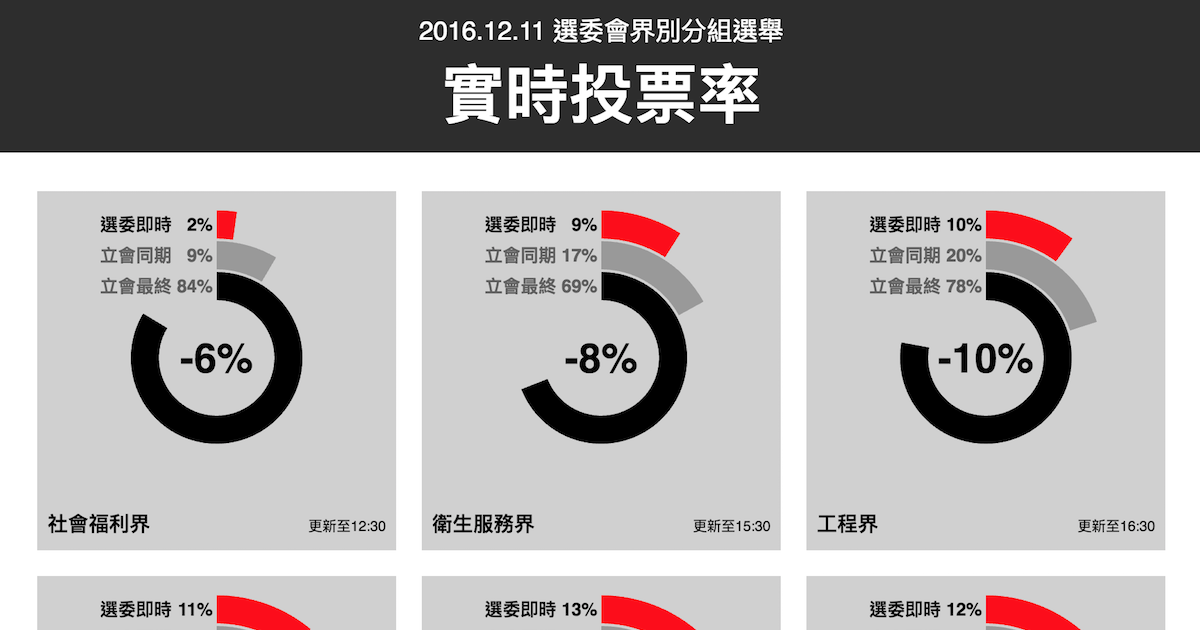
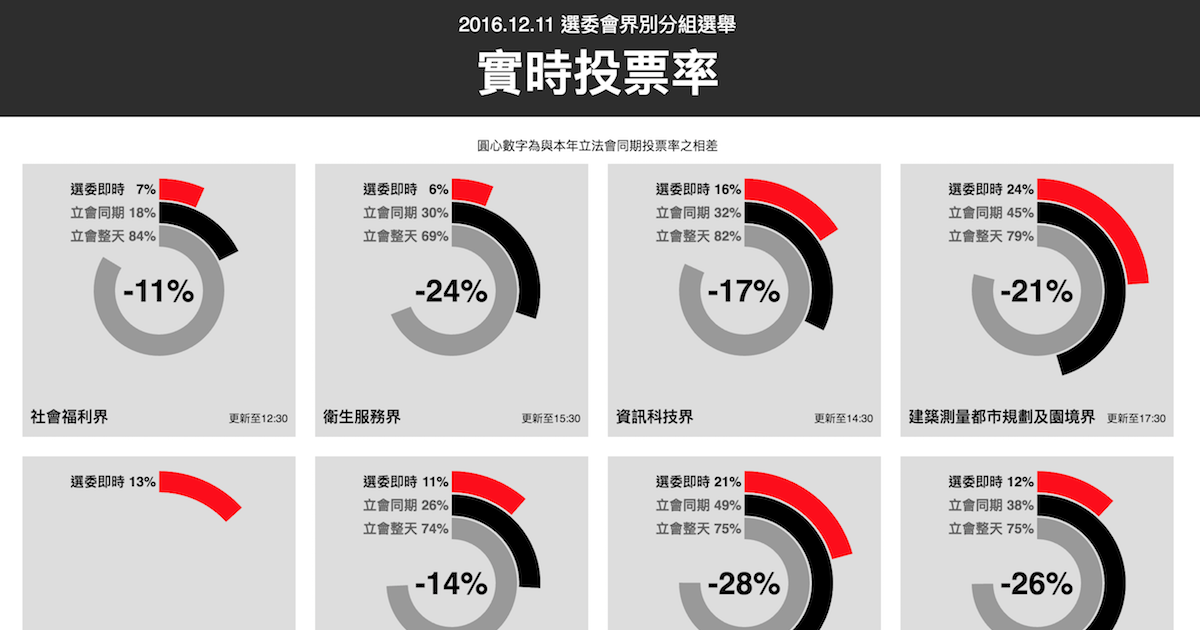
Update chart colors.

diff --git a/scripts.js b/scripts.js
@@ -5,7 +5,7 @@ var width = 22;
 var maxRadius = 115;
 var cat = ["ECNow", "LegcoNow", "LegcoFinal"];
 var catNames = ["選委即時", "立會同期", "立會整天"]
-var catColors = ["#ff0000", "#999999", "#000000"];
+var catColors = ["#ff0000", "#000000", "#999999"];
 var lastData = null;
 
 d3.select("#header")
@@ -26,7 +26,7 @@ function draw(data, tabletop) {
     .append("svg")
     .style("width", "280px")
     .style("height", "280px")
-    .style("background", "#d0d0d0")
+    .style("background", "#dddddd")
     .style("margin", "10px")
     .style("cursor", "pointer")
     .on("click", function(d, i) {
